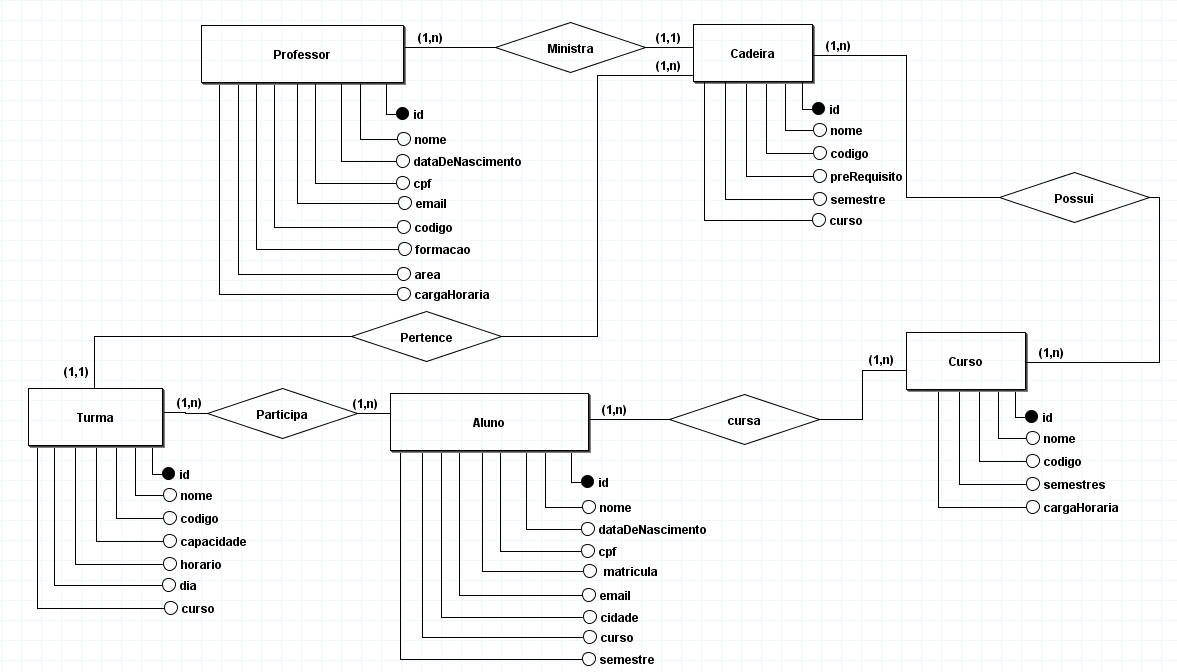
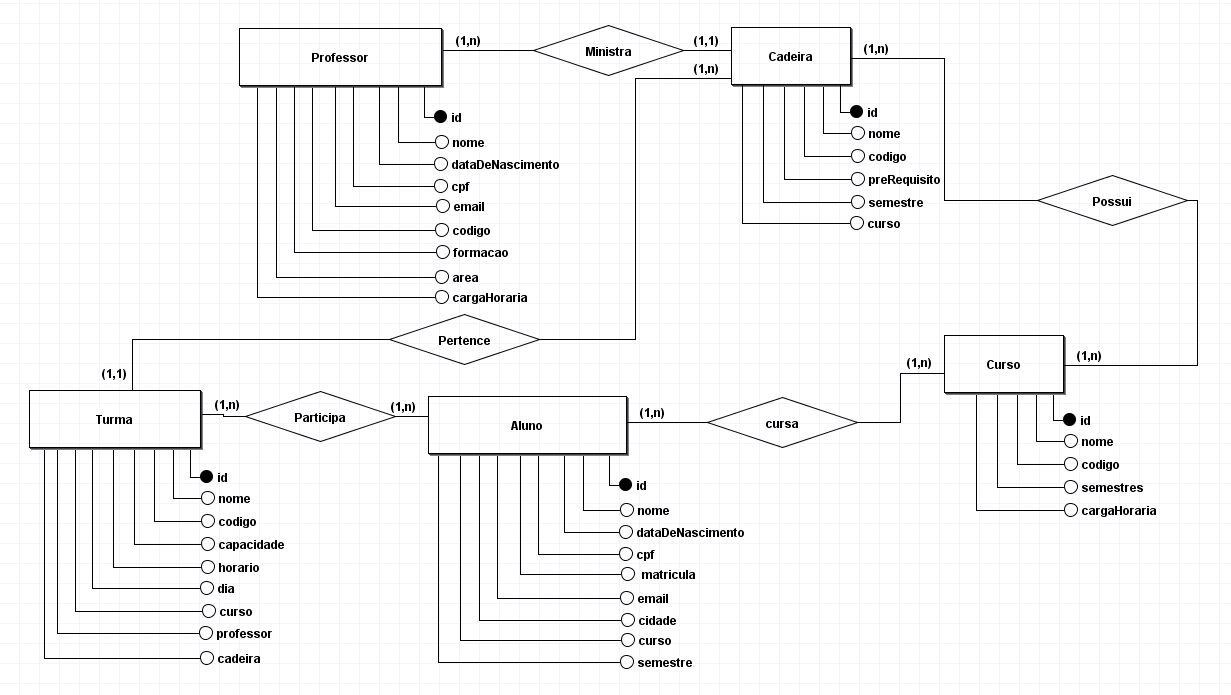
Reconsideração da documentação
Adicionado novos atributos a tabela Turma para referenciar objetos das tabelas Curso, Professor e Cadeira. Reorganizado também o README do projeto

diff --git a/README.md b/README.md
@@ -1,58 +1,9 @@
-O sistema possui a finalidade de reduzir a demanda existente no gerenciamento acadêmico de estudantes da educação do ensino de nível superior. 
-O sistema é baseado em uma aplicação já existente, o Sistema Integrado de Gestão de Atividades Acadêmicas, o SIGAA. O sistema possuirá as seguintes tabelas: aluno, curso, cadeira, turma e professor.
+A gestão eficiente de dados do meio acadêmico, como turmas, alunos, cursos, disciplinas (cadeiras) e professores, é essencial para o bom funcionamento de quaisquer instituições educacionais. Em muitos cenários, essa gestão ainda é feita de forma manual, resultando em processos lentos e sucetíveis à falhas que podem impactar diretamente a organização do cronograma estudantil e a alocação de recursos, como professores e cadeiras ofertadas.
 
----
-**Requisitos funcionais:**
-- o sistema deve permitir o cadastro de novos alunos;
-- o sistema deve permitir a exclusão de alunos;
-- o sistema deve permitir a alteração de dados dos alunos;
-- o sistema deve permitir o cadastro de novos professores;
-- o sistema deve permitir a exclusão de professores;
-- o sistema deve permitir a alteração de dados de professores;
-- o sistema deve permitir o cadastro de novas cadeiras;
-- o sistema deve permitir a exclusão de cadeiras;
-- o sistema deve permitir a alteração de dados das cadeiras;
-- o sistema deve permitir o cadastro de novos cursos;
-- o sistema deve permitir a exclusão de cursos;
-- o sistema deve permitir a alteração de dados dos cursos;
-- o sistema deve permitir o cadastro de novas turmas;
-- o sistema deve permitir a exclusão de turmas;
-- o sistema deve permitir a alteração de dados das turmas;
-- o sistema não pode permitir a matricula de cadeiras que possuem horários conflitantes;
-- o sistema deve delimitar uma quantidade mínima e máxima de cadeiras que um aluno pode cursar;
-- o sistema deve delimitar uma quantidade mínima e máxima de cadeiras que um professor pode ministrar;
----
-**Requisitos não funcionais:**
-- o sistema será desenvolvido pela aplicação SQLServer, com a linguagem SQL;
----
-**Modelo de domínio:**
--	o sistema deve permitir o cadastro de um aluno com um número de matrícula único;
-- o sistema deve permitir o cadastro de um professor com um código único;
-- o sistema deve permitir o cadastro de uma turma com um código único;
-- o sistema deve permitir o cadastro de um curso com um código único;
-- o sistema deve permitir o cadastro de uma cadeira com um código único;
-- um aluno pode estar associado a vários cursos, mas apenas uma associação por curso;
-- um aluno pode estar associado a várias cadeiras, mas apenas uma associação por cadeira;
-- um aluno pode estar associado a várias turmas, mas apenas uma associação por turma;
-- um aluno não pode se matricular em cadeiras com horários conflitantes;
-- um professor pode estar associado a várias cadeiras, mas apenas uma associação por cadeira;
-- os campos nome, cpf, data de nascimento e e-mail são de caráter obrigatório para alunos e professores;
----
-**Lista de componentes:**
-- **tabela aluno** – armazenará as informações dos estudantes, dentre elas: nome, data de nascimento, cpf, matricula, curso, semestre etc;
-- **tabela professor** – armazenará informações dos docentes, dentre elas: nome, data de nascimento, cpf, formação, carga horário etc;
-- **tabela cadeira** – armazenará as informações das disciplinas de cada curso, dentre elas: nome, código, pré-requisitos etc;
-- **tabela turma** – armazenará as informações de cada turma, dentre elas: nome, capacidade, horário, professor etc;
-- **tabela curso** – armazenará as informações de cada curso, dentre elas: nome, semestres, carga horária etc;
-- **triggers**:
-    - tabela turma – definirá a capacidade máxima de alunos matriculados;
-    - tabela cadeira – definirá apenas um professor como ministrante;
----
-**Diagrama entidade-relacionamento**
+Além disso, o crescimento contínuo das instituições de ensino e a diversidade dos cursos oferecidos exigem uma solução automatizada que permita o controle centralizado e otimizado desses dados. Dessa forma, surge a necessidade de sistemas que ofereçam um gerenciamento mais dinâmico, acessível e preciso da vida acadêmica dos estudantes e dos professores.
 
-![Diagrama entidade-relacionamento](img/ModeloEntidadeRelacionamento.png)
----
-**Diagrama lógico:**
+O sistema, baseado no Sistema Integrado de Gestão de Atividade Acadêmicas (Sigaa), tem como objetivo fornecer uma solução digital para gerenciar a grade curricular dos estudantes e a alocação de professores em suas respectivas turmas. Esse sistema será estruturado a partir de cinco principais entidades: aluno, turma, curso, cadeira (disciplina) e professor, formando um banco de dados relacional que possibilita a integração eficiente desses dados.
 
-![Diagrama lógico](img/ModeloLogico.png)
----
+Através desse sistema, será possível realizar a matrícula de alunos em turmas, associar disciplinas a cursos, e vincular professores às disciplinas que ministram. Isso trará uma série de benefícios, como a automatização do controle de carga horária dos estudantes, a verificação dos cursos e disciplinas disponíveis, além da otimização da alocação de professores conforme suas áreas de especialização.
+
+O sistema busca oferecer uma solução simples e intuitiva para auxiliar a administração acadêmica na organização da grade curricular e no gerenciamento das turmas e professores, garantindo que o planejamento seja realizado de forma mais rápida e eficiente.
